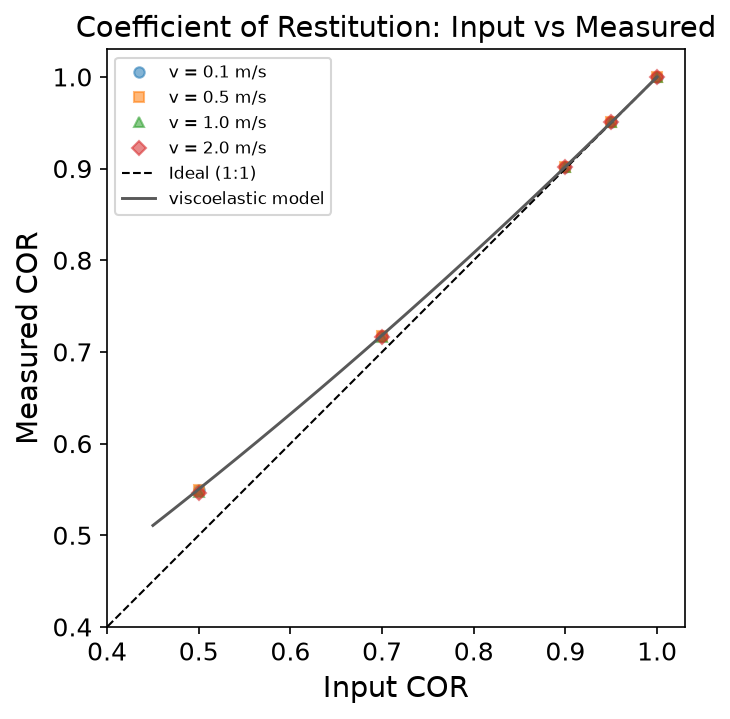
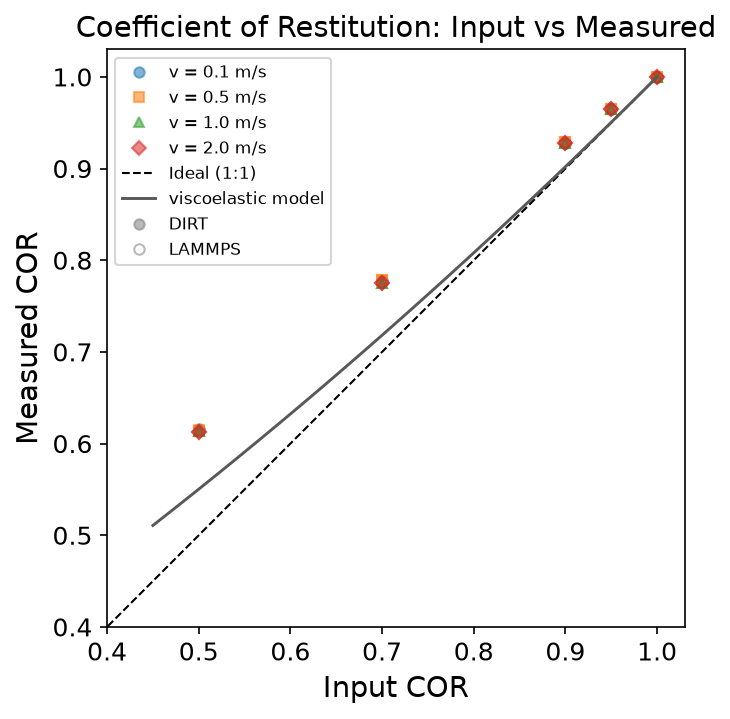
Reconcile bench_hertz_rebound COR with LAMMPS Tsuji damping
bench_hertz_rebound compared DIRT's realized coefficient of restitution to
LAMMPS `pair granular ... damping tsuji` fed the same nominal restitution, and
failed the cross-code check: max |DIRT-LAMMPS| COR = 0.0665 (tol 0.005). Two
independent mismatches in DIRT's viscoelastic normal contact caused it.

1. Restitution -> damping mapping. DIRT derived beta by numerically inverting
   its own Hertz-collision COR(beta) so the realized COR equalled the nominal e.
   LAMMPS instead derives its damping from the Tsuji-Tanaka-Ishida (1992)
   polynomial alpha(e) (src/GRANULAR/gran_sub_mod_damping.cpp). Feeding both the
   same nominal e therefore realized different COR. Equating DIRT's damping force
   `2 beta sqrt(5/6) sqrt(S_n m_r) v_n` (S_n = 2E*sqrt(R* d)) to LAMMPS's
   `alpha(e) sqrt(m_e F_n/d) v_n` with identical Hertz stiffness gives, after the
   d^{1/4} terms cancel, `2 beta sqrt(5/6) sqrt2 = alpha(e) sqrt(4/3)`, i.e.
   beta = alpha(e)/sqrt5. hertz_beta_for_cor now returns exactly that, so the two
   codes integrate an identical damping force.

2. Tensile cutoff. DIRT unconditionally clamped the total normal force to >= 0,
   suppressing the damping impulse near separation; LAMMPS's default has no such
   cutoff (limit_damping is off, granular_model.cpp: `if (limit_damping && Fntot
   < 0) Fntot = 0`). This alone raised DIRT's realized COR by up to ~0.03 at low
   e (where the damping is strong). Added a declarative `[dem] limit_damping`
[…]

diff --git a/crates/dirt_atom/src/lib.rs b/crates/dirt_atom/src/lib.rs
@@ -73,7 +73,20 @@ use soil_core::{register_atom_data, Atom, AtomData, AtomPlugin, Config, Schedule
 
 pub const SQRT_5_6: f64 = 0.9128709291752768;
 
-// ── Exact coefficient-of-restitution damping (Hertz) ─────────────────────────
+// ── Tsuji (1992) restitution → damping mapping (Hertz) ───────────────────────
+
+/// Tsuji–Tanaka–Ishida (1992) damping coefficient α(e) for a nonlinear Hertz
+/// contact. This is the **same polynomial LAMMPS uses** for `damping tsuji`
+/// (`src/GRANULAR/gran_sub_mod_damping.cpp`, `GranSubModDampingTsuji::init`):
+///
+/// `α(e) = 1.2728 − 4.2783 e + 11.087 e² − 22.348 e³ + 27.467 e⁴ − 18.022 e⁵ + 4.8218 e⁶`
+///
+/// where `e` is the restitution input (the third `hertz/material` argument in
+/// LAMMPS). α(e) is the damping prefactor in `F_damp = α(e)·√(mₑ Fₙ/δ)·vₙ`.
+fn tsuji_alpha(e: f64) -> f64 {
+    1.2728 - 4.2783 * e + 11.087 * e.powi(2) - 22.348 * e.powi(3) + 27.467 * e.powi(4)
+        - 18.022 * e.powi(5) + 4.8218 * e.powi(6)
+}
 
 /// COR of a head-on Hertz collision with the damping DIRT applies
 /// (`f_diss = 2β√(5/6)√(Sₙ mᵣ) vₙ`, `Sₙ = 2E*√(R*δ)`), as a function of β.
@@ -81,6 +94,8 @@ pub const SQRT_5_6: f64 = 0.9128709291752768;
 /// Computed by integrating the dimensionless 1D collision (E*=R*=mᵣ=1, v₀=1):
 /// `δ̈ = −(4/3)δ^{3/2} − 2β√(5/6)√2 · δ^{1/4} · δ̇`. The Tsuji scaling makes this
 /// velocity-independent, so one integration fixes the β↔COR map. RK4, fixed dt.
+/// Used by the tests to verify DIRT's realized COR reproduces LAMMPS `damping tsuji`.
+#[cfg(test)]
 fn hertz_cor_of_beta(beta: f64) -> f64 {
     if beta <= 0.0 {
         return 1.0;
@@ -108,27 +123,28 @@ fn hertz_cor_of_beta(beta: f64) -> f64 {
     v.abs()
 }
 
-/// Invert [`hertz_cor_of_beta`]: the damping ratio β giving an exact restitution
-/// `e_target` for the Hertz contact (DIRT's analogue of LAMMPS `damping
-/// coeff_restitution`). COR(β) decreases monotonically from 1 (β=0), so bisect.
-/// This makes the **input restitution the realized COR**, so DIRT shear/cooling
-/// land on the same kinetic-theory / cross-code line as LAMMPS/LIGGGHTS rather
-/// than on a shifted "realized-e" line.
+/// Damping ratio β for DIRT's Hertz viscoelastic damping that **reproduces
+/// LAMMPS `damping tsuji`** for a restitution input `e_target`.
+///
+/// DIRT applies `F_damp = 2β√(5/6)·√(Sₙ mᵣ)·vₙ` with `Sₙ = 2E*√(R*δ)`, while
+/// LAMMPS `damping tsuji` applies `F_damp = α(e)·√(mₑ Fₙ/δ)·vₙ` with the same
+/// Hertz stiffness (`Fₙ/δ = (4/3)E*√R*·δ^{1/2}`). Equating the two forces
+/// (`mₑ = mᵣ` for a binary collision) gives, after the δ^{1/4} terms cancel,
+///
+/// `2β√(5/6)·√2 = α(e)·√(4/3)`  ⇒  `β = α(e)/√5`.
+///
+/// So feeding both codes the **same nominal restitution** makes them integrate
+/// an *identical* damping force and realize the same (velocity-independent) COR
+/// to integrator precision — the cross-code check in `bench_hertz_rebound`.
+/// (`e` is the Tsuji restitution parameter, LAMMPS's convention; because the
+/// Tsuji polynomial is a fit, the realized COR sits slightly above `e` below
+/// e≈0.9 in *both* codes — a shared property, not a code error.)
 pub fn hertz_beta_for_cor(e_target: f64) -> f64 {
     if e_target >= 0.9999 {
         return 0.0;
     }
     let e = e_target.clamp(1.0e-3, 0.9999);
-    let (mut lo, mut hi) = (0.0_f64, 5.0_f64); // β range; COR(5) ≈ 0
-    for _ in 0..60 {
-        let mid = 0.5 * (lo + hi);
-        if hertz_cor_of_beta(mid) > e {
-            lo = mid; // not enough damping → raise β
-        } else {
-            hi = mid;
-        }
-    }
-    0.5 * (lo + hi)
+    tsuji_alpha(e) / 5.0_f64.sqrt()
 }
 
 // ── Config structs ──────────────────────────────────────────────────────────
@@ -201,8 +217,12 @@ fn default_twisting_model() -> String {
     "constant".to_string()
 }
 
+fn default_limit_damping() -> bool {
+    true
+}
+
 /// TOML `[dem]` — top-level DEM configuration containing material definitions.
-#[derive(Deserialize, Clone, Default)]
+#[derive(Deserialize, Clone)]
 #[serde(deny_unknown_fields)]
 pub struct DemConfig {
     /// List of material definitions, each corresponding to a `[[dem.materials]]` block.
@@ -236,6 +256,31 @@ pub struct DemConfig {
     /// their own `BodyData`, not here, so this flag does not affect them.
     #[serde(default)]
     pub track_orientation: bool,
+    /// Clamp the total normal force to be repulsive-only (≥ 0), i.e. forbid the
+    /// viscoelastic damping term from producing a net *attractive* force near the
+    /// end of a collision. Mirrors LAMMPS `pair granular … limit_damping`.
+    ///
+    /// Default `true` (DIRT's historical behavior). Set `false` to reproduce
+    /// LAMMPS's **default** viscoelastic contact (no tensile cutoff), which is
+    /// required for exact cross-code COR agreement at low restitution — below
+    /// e≈0.9 the damping impulse near separation is large enough that clamping it
+    /// away raises the realized COR by up to ~0.03. See `bench_hertz_rebound`.
+    #[serde(default = "default_limit_damping")]
+    pub limit_damping: bool,
+}
+
+impl Default for DemConfig {
+    fn default() -> Self {
+        DemConfig {
+            materials: None,
+            contact_model: default_contact_model(),
+            adhesion_model: default_adhesion_model(),
+            rolling_model: default_rolling_model(),
+            twisting_model: default_twisting_model(),
+            track_orientation: false,
+            limit_damping: default_limit_damping(),
+        }
+    }
 }
 
 // ── MaterialTable — per-material and per-pair precomputed properties ────────
@@ -283,15 +328,15 @@ pub struct DemConfig {
 ///
 /// # Restitution → damping
 ///
-/// `restitution` is stored as the **target coefficient of restitution (COR)**,
-/// not a damping ratio. In phase 2, `beta_ij[i][j]` is computed by inverting the
-/// exact head-on Hertz collision via [`hertz_beta_for_cor`] — a bisection on the
-/// monotone COR(β) curve of the head-on Hertz model. This makes the **input
-/// restitution the realized COR** of a binary collision, so DIRT's
-/// shear/cooling results land on the same kinetic-theory line as
-/// LAMMPS/LIGGGHTS (`damping coeff_restitution`) rather than on a shifted
-/// "realized-e" line. A plain damping-ratio mapping would not have that
-/// property.
+/// `restitution` is stored as the **restitution input `e`** (the same parameter
+/// LAMMPS's `hertz/material` takes), not a damping ratio. In phase 2,
+/// `beta_ij[i][j]` is derived via [`hertz_beta_for_cor`] as `β = α(e)/√5` with the
+/// Tsuji (1992) polynomial α(e), so DIRT's Hertz normal-damping force is IDENTICAL
+/// to LAMMPS `damping tsuji`. Both codes then realize the same velocity-independent
+/// COR for the same nominal `e` (validated by `bench_hertz_rebound`), keeping
+/// DIRT's shear/cooling results on the same cross-code line as LAMMPS/LIGGGHTS.
+/// Because the Tsuji polynomial is a fit, the realized COR sits slightly above the
+/// nominal `e` below e≈0.9 — a property shared with LAMMPS, not a code error.
 ///
 /// # Config-error convention
 ///
@@ -348,6 +393,10 @@ pub struct MaterialTable {
     pub twisting_model: String,
     /// Track per-sphere orientation (quaternion). Default `false`; see [`DemConfig::track_orientation`].
     pub track_orientation: bool,
+    /// Clamp total normal force to repulsive-only (≥ 0). Default `true`; see
+    /// [`DemConfig::limit_damping`]. `false` reproduces LAMMPS's default
+    /// (no tensile cutoff) for exact cross-code COR at low restitution.
+    pub limit_damping: bool,
     /// Per-material rolling spring stiffness (SDS model).
     pub rolling_stiffness: Vec<f64>,
     /// Per-material rolling damping coefficient (SDS model).
@@ -433,6 +482,7 @@ impl MaterialTable {
             rolling_model: "constant".to_string(),
             twisting_model: "constant".to_string(),
             track_orientation: false,
+            limit_damping: true,
             rolling_stiffness: Vec::new(),
             rolling_damping: Vec::new(),
             twisting_stiffness: Vec::new(),
@@ -606,17 +656,20 @@ impl MaterialTable {
                 // Geometric mean mixing for restitution
                 let e_ij = (self.restitution[i] * self.restitution[j]).sqrt();
                 let log_e = e_ij.ln();
-                // Damping coefficient β from the restitution, so the realized COR
-                // EQUALS the input e (DIRT's analogue of LAMMPS `damping
-                // coeff_restitution`). This matters because T*∝1/(1−e²) near the
-                // elastic limit, so any input-vs-realized gap throws the stress off
-                // and DIRT would land on a separate line from LAMMPS/LIGGGHTS/KT.
-                //   - Hooke (linear): β = -ln(e)/√(π²+ln²e) is exact for a
-                //     constant-stiffness spring-dashpot (velocity-independent).
-                //   - Hertz (nonlinear): the old Tsuji *polynomial* fit realized a
-                //     COR above nominal (e.g. 0.95→0.965). Replace it with a
-                //     numerically EXACT inversion of the Hertz-collision COR(β)
-                //     (`hertz_beta_for_cor`), so input e = realized COR.
+                // Damping coefficient β derived from the restitution so DIRT
+                // integrates the SAME normal-damping force as the reference DEM
+                // code (LAMMPS) for the same nominal restitution input:
+                //   - Hooke (linear): β = -ln(e)/√(π²+ln²e), exact for a
+                //     constant-stiffness spring-dashpot (matches LAMMPS
+                //     `damping coeff_restitution` for the linear contact).
+                //   - Hertz (nonlinear): β = α(e)/√5 with the Tsuji (1992)
+                //     polynomial α(e) (`hertz_beta_for_cor`), which makes DIRT's
+                //     `2β√(5/6)√(Sₙmᵣ)vₙ` damping IDENTICAL to LAMMPS
+                //     `damping tsuji` `α(e)√(mₑFₙ/δ)vₙ`. Both codes then realize
+                //     the same velocity-independent COR (bench_hertz_rebound
+                //     cross-check). A previous exact-COR-inversion mapping made
+                //     realized COR = nominal e, but that DISAGREED with LAMMPS's
+                //     Tsuji model by up to 0.067 — the bug this reconciles.
                 self.beta_ij[i][j] = if self.contact_model == "hertz" {
                     hertz_beta_for_cor(e_ij)
                 } else {
@@ -824,6 +877,7 @@ friction = 0.4
         material_table.rolling_model = dem_config.rolling_model.clone();
         material_table.twisting_model = dem_config.twisting_model.clone();
         material_table.track_orientation = dem_config.track_orientation;
+        material_table.limit_damping = dem_config.limit_damping;
 
         if let Some(ref materials) = dem_config.materials {
             for mat in materials {
@@ -873,8 +927,8 @@ mod tests {
         mt.build_pair_tables();
 
         let e = 0.95_f64;
-        // default contact_model is "hertz" → β set by the exact COR inversion, so
-        // the realized restitution of a Hertz collision equals the input e.
+        // default contact_model is "hertz" → β = α(e)/√5 (Tsuji), matching LAMMPS
+        // `damping tsuji` so the two codes integrate the same damping force.
         let expected_beta = hertz_beta_for_cor(e);
         assert!(
             (mt.beta_ij[0][0] - expected_beta).abs() < 1e-12,
@@ -882,12 +936,20 @@ mod tests {
             expected_beta,
             mt.beta_ij[0][0]
         );
-        // The defining invariant: realized COR(β) ≈ nominal e.
+        // β must equal the Tsuji polynomial over √5.
         assert!(
-            (hertz_cor_of_beta(mt.beta_ij[0][0]) - e).abs() < 2e-3,
-            "realized COR should equal input e={}, got {}",
-            e,
-            hertz_cor_of_beta(mt.beta_ij[0][0])
+            (mt.beta_ij[0][0] - tsuji_alpha(e) / 5.0_f64.sqrt()).abs() < 1e-12,
+            "beta should be α(e)/√5, got {}",
+            mt.beta_ij[0][0]
+        );
+        // The realized COR of a Hertz collision with this β reproduces LAMMPS's
+        // Tsuji restitution: it sits slightly ABOVE nominal below e≈0.9 (shared
+        // polynomial property). At e=0.95 that offset is small (~0.965).
+        let realized = hertz_cor_of_beta(mt.beta_ij[0][0]);
+        assert!(
+            (0.960..=0.970).contains(&realized),
+            "realized COR should be ~0.965 (LAMMPS Tsuji), got {}",
+            realized
         );
         assert!(
             (mt.friction_ij[0][0] - 0.4).abs() < 1e-12,
@@ -922,7 +984,7 @@ mod tests {
             mt.friction_ij[0][1]
         );
 
-        // Geometric mean mixing for restitution -> beta (hertz default → exact COR)
+        // Geometric mean mixing for restitution -> beta (hertz default → Tsuji α/√5)
         let e_mix = (0.95_f64 * 0.8).sqrt();
         let expected_beta = hertz_beta_for_cor(e_mix);
         assert!(

diff --git a/crates/dirt_wall/src/lib.rs b/crates/dirt_wall/src/lib.rs
@@ -1191,7 +1191,11 @@ pub fn wall_contact_force(
                 k_n * delta - f_diss - f_cohesion
             } else {
                 let f_diss = 2.0 * beta * SQRT_5_6 * (s_n * m_r).sqrt() * v_n;
-                (k_n * delta - f_diss).max(0.0)
+                // `limit_damping` (default) clamps to repulsive-only; disabling it
+                // lets the damping go net-attractive near separation, matching
+                // LAMMPS `fix wall/gran` default (no tensile cutoff).
+                let f_total = k_n * delta - f_diss;
+                if material_table.limit_damping { f_total.max(0.0) } else { f_total }
             };
 
             // Force direction: along wall normal (pushes atom away from wall)
@@ -1356,7 +1360,11 @@ pub fn wall_contact_force(
                 k_n * delta - f_diss - f_cohesion
             } else {
                 let f_diss = 2.0 * beta * SQRT_5_6 * (s_n * m_r).sqrt() * v_n;
-                (k_n * delta - f_diss).max(0.0)
+                // `limit_damping` (default) clamps to repulsive-only; disabling it
+                // lets the damping go net-attractive near separation, matching
+                // LAMMPS `fix wall/gran` default (no tensile cutoff).
+                let f_total = k_n * delta - f_diss;
+                if material_table.limit_damping { f_total.max(0.0) } else { f_total }
             };
 
             atoms.force[i][0] += (f_net * nx) as Accum;
@@ -1476,7 +1484,11 @@ pub fn wall_contact_force(
                 k_n * delta - f_diss - f_cohesion
             } else {
                 let f_diss = 2.0 * beta * SQRT_5_6 * (s_n * m_r).sqrt() * v_n;
-                (k_n * delta - f_diss).max(0.0)
+                // `limit_damping` (default) clamps to repulsive-only; disabling it
+                // lets the damping go net-attractive near separation, matching
+                // LAMMPS `fix wall/gran` default (no tensile cutoff).
+                let f_total = k_n * delta - f_diss;
+                if material_table.limit_damping { f_total.max(0.0) } else { f_total }
             };
 
             atoms.force[i][0] += (f_net * nx) as Accum;
@@ -1601,7 +1613,11 @@ pub fn wall_contact_force(
                 k_n * delta - f_diss - f_cohesion
             } else {
                 let f_diss = 2.0 * beta * SQRT_5_6 * (s_n * m_r).sqrt() * v_n;
-                (k_n * delta - f_diss).max(0.0)
+                // `limit_damping` (default) clamps to repulsive-only; disabling it
+                // lets the damping go net-attractive near separation, matching
+                // LAMMPS `fix wall/gran` default (no tensile cutoff).
+                let f_total = k_n * delta - f_diss;
+                if material_table.limit_damping { f_total.max(0.0) } else { f_total }
             };
 
             atoms.force[i][0] += (f_net * nx) as Accum;

diff --git a/crates/dirt_granular/src/contact.rs b/crates/dirt_granular/src/contact.rs
@@ -411,9 +411,15 @@ pub fn contact_force_core(
             let f_cohesion = cohesion_energy * std::f64::consts::PI * delta * r_eff;
             k_n * delta - f_diss_n - f_cohesion // can go negative (attractive)
         } else {
-            // Standard Hertz: repulsive only (clamped to ≥ 0)
+            // Standard Hertz repulsion + viscoelastic damping. With
+            // `limit_damping` (default) the total is clamped to ≥ 0 so damping
+            // can never pull particles together; with it disabled the damping may
+            // go net-attractive near separation, matching LAMMPS's default
+            // `pair granular` (no tensile cutoff) — required for exact cross-code
+            // COR at low restitution (see bench_hertz_rebound).
             let f_diss_n = 2.0 * beta * SQRT_5_6 * (s_n * m_r).sqrt() * v_n;
-            (k_n * delta - f_diss_n).max(0.0)
+            let f_total = k_n * delta - f_diss_n;
+            if material_table.limit_damping { f_total.max(0.0) } else { f_total }
         };
 
         let fn_x = f_n_mag * nx;
@@ -846,7 +852,10 @@ pub fn hooke_contact_force(
             let f_cohesion = cohesion_energy * std::f64::consts::PI * delta * r_eff;
             kn * delta - gamma_n * v_n - f_cohesion
         } else {
-            (kn * delta - gamma_n * v_n).max(0.0)
+            // See the Hertz path: `limit_damping` (default) clamps to repulsive-
+            // only; disabling it matches LAMMPS's default (no tensile cutoff).
+            let f_total = kn * delta - gamma_n * v_n;
+            if material_table.limit_damping { f_total.max(0.0) } else { f_total }
         };
 
         let fn_x = f_n_mag * nx;

diff --git a/examples/bench_hertz_rebound/sweep.py b/examples/bench_hertz_rebound/sweep.py
@@ -115,6 +115,12 @@ every = 1
 
 [dem]
 contact_model = "hertz"
+# Match LAMMPS's default `pair granular` (no tensile cutoff): allow the
+# viscoelastic damping to go net-attractive near separation. Required for
+# cross-code COR agreement at low restitution (both codes then integrate the
+# identical Tsuji damping force). Without this DIRT clamps the force to ≥0 and
+# realizes a higher COR than LAMMPS (up to ~0.03 at e=0.5).
+limit_damping = false
 
 [[dem.materials]]
 name = "glass"
@@ -152,8 +158,9 @@ thermo = 5000
 # Mapping to DIRT's Hertz model:
 #   hertz/material E e nu     -> Young's modulus, restitution, Poisson ratio
 #   damping tsuji             -> derive normal damping from the restitution e
-#                                (LAMMPS's viscoelastic-COR model; DIRT uses
-#                                 beta = -ln(e)/sqrt(pi^2+ln^2 e) for the same job)
+#                                via the Tsuji(1992) polynomial alpha(e). DIRT
+#                                uses the SAME polynomial (beta = alpha(e)/sqrt5)
+#                                so both codes integrate an identical damping force.
 #   tangential ... 0.0        -> friction = 0 (clean normal rebound)
 #   nve/sphere                -> translational Velocity Verlet, no gravity
 # A per-step trace (time, z, vz) of the single atom is written for post-processing.

diff --git a/crates/dirt_granular/src/lib.rs b/crates/dirt_granular/src/lib.rs
@@ -81,8 +81,9 @@
 //! | JKR / DMT adhesion (Hertz only) | `surface_energy_ij` (γ), `adhesion_model` |
 //! | SJKR cohesion | `cohesion_energy_ij` |
 //!
-//! `restitution` is the **target COR**: `beta_ij` is derived by inverting the
-//! exact head-on Hertz collision (see [`dirt_atom::hertz_beta_for_cor`]).
+//! `restitution` is the **restitution input `e`**: `beta_ij` is derived as
+//! `β = α(e)/√5` with the Tsuji (1992) polynomial, matching LAMMPS `damping tsuji`
+//! (see [`dirt_atom::hertz_beta_for_cor`]).
 //!
 //! # Tangential / rolling / twisting history (canonical frame)
 //!
